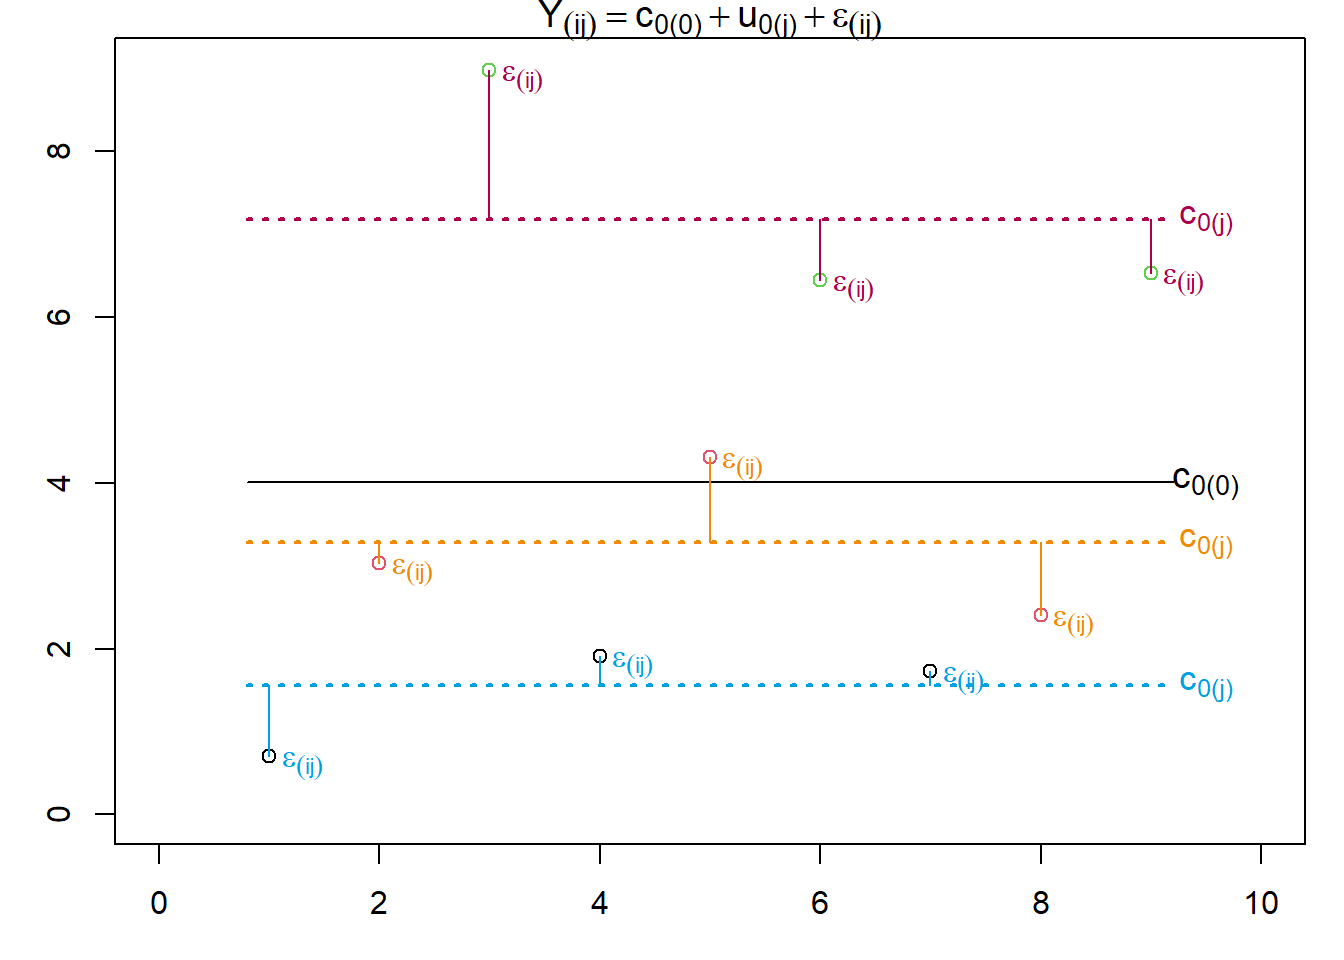
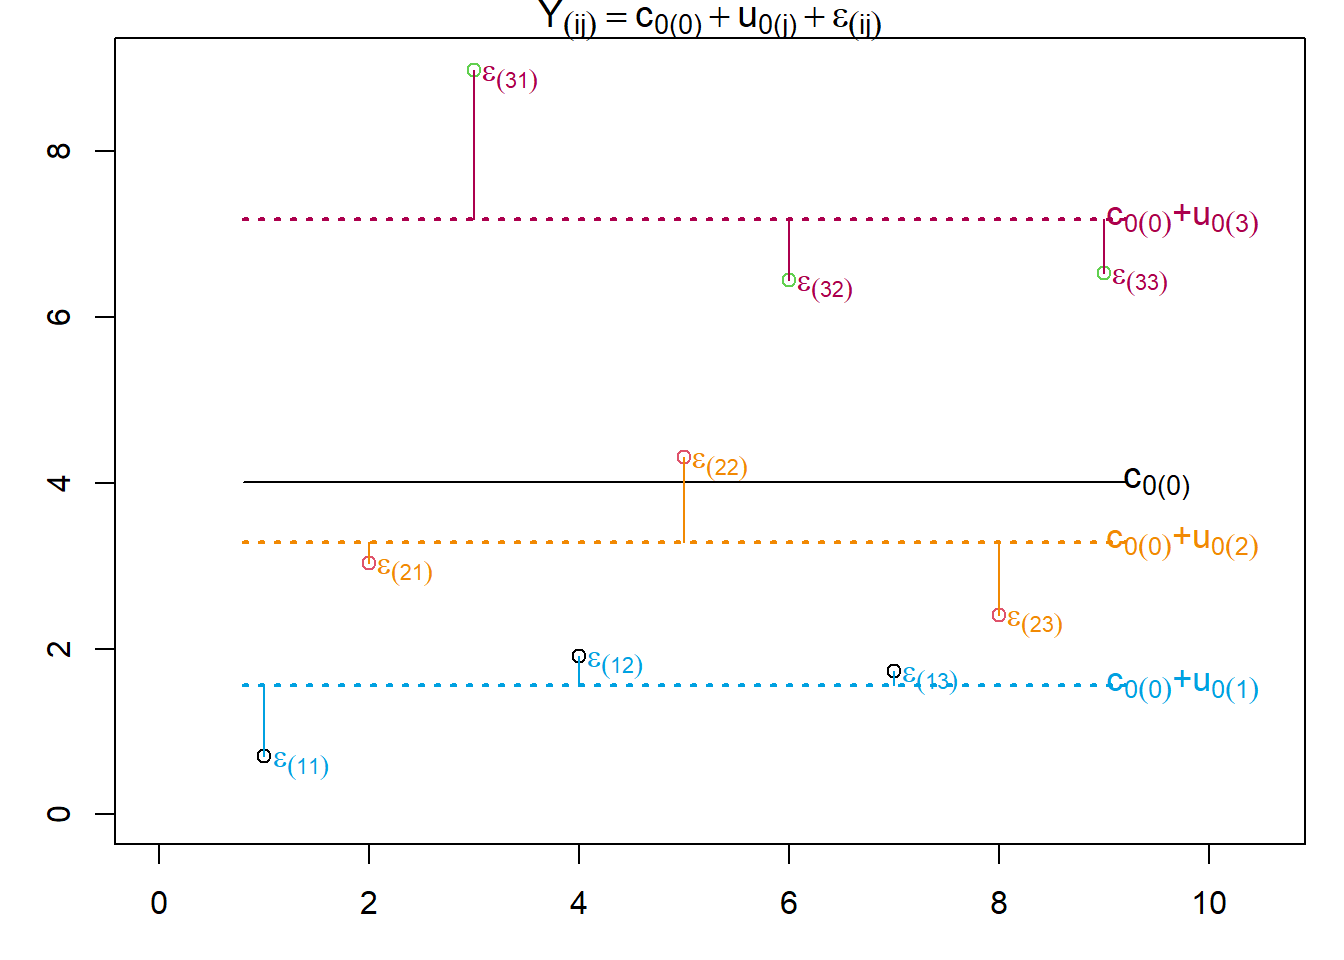
Bugfixes and improvement to inference9.

diff --git a/docs/inference9.html b/docs/inference9.html
@@ -282,7 +282,7 @@ code span.wa { color: #60a0b0; font-weight: bold; font-style: italic; } /* Warni
 </header>
 
 <p>In the real world (and in some psychological experiments), data is embedded in a hierarchical structure. If we want to apply a regression approach to hierarchical data, we need to consider this structure in our models.</p>
-<p>Hierarchical data structures consist of at last two levels at which the observation of a criterion variable of interest is possible. Per convention, we define the most fine-rained level of observation as level 1. Level 1 is the most fine-grained one and, thus, the one with the highest number of observations. At level 2, we can cluster the level 1 data into several distinct groups with group membership defined by level 2 variables. We can then cluster level 2 data into distinct groups at level 3, and so on.</p>
+<p>Hierarchical data structures consist of at last two levels at which the observation of variables is possible. Per convention, we define the most fine-grained level of observation as level 1. This is also the level at which we measure the criterion. Since Level 1 is the most fine-grained one it also has the highest number of observations. At level 2, we can cluster the level 1 data into several distinct groups with group membership defined by level 2 variables. We can then cluster level 2 data into distinct groups at level 3, and so on.</p>
 <p>Here are some examples:</p>
 <ul>
 <li>measurement of performance (criterion) in an experiment in several trials (level 1) per participant (level 2)</li>
@@ -298,7 +298,7 @@ code span.wa { color: #60a0b0; font-weight: bold; font-style: italic; } /* Warni
 <li><strong>Level 4</strong>: industry-level wage level, work hazards, degree of unionisation</li>
 </ul>
 <p>We could reasonably postulate hypotheses linking any (or all) of the variables above to the criterion (experienced stress). However, the critical question is how to approach a test of these hypotheses in an appropriate way. The answer is: by using multi-level models.</p>
-<p>Multi-level models (also known as hierarchical linear models, mixed effects models, or nested-data models) are regression models that take the hierarchical stricture of the data into account by partitioning the variance of the criterion accordingly. As such, they are not unlike repeated measures and mixed ANOVAs where the variance of the observed variable is partitioned into variance between and variance within participants. In fact, these ANOVAs are special types of multi-level models, which means that multi-level models are a more general and, thus, more flexible method to deal with hierarchical data.</p>
+<p>Multi-level models (also known as hierarchical linear models, mixed effects models, or nested-data models) are regression models that take the hierarchical structure of the data into account by partitioning the variance of the criterion accordingly. As such, they are not unlike repeated measures and mixed ANOVAs where the variance of the observed variable is partitioned into variance between and variance within participants. In fact, these ANOVAs are special types of multi-level models, which means that multi-level models are a more general and, thus, more flexible method to deal with hierarchical data.</p>
 <section id="why-considering-the-data-structrue-is-important" class="level2">
 <h2 class="anchored" data-anchor-id="why-considering-the-data-structrue-is-important">Why considering the data structrue is important</h2>
 <p>The first question we might ask ourselves is why we should bother considering the data structure in the first place. Why not just aggregate the data and run an ordinary linear regression model using the aggregate scores as the criterion? The answer is twofold.</p>
@@ -327,7 +327,7 @@ code span.wa { color: #60a0b0; font-weight: bold; font-style: italic; } /* Warni
 <p>We already know a model containing fixed and random effects, namely the simple linear regression. Let’s recap it basic formula:</p>
 <p><span class="math display">\[Y = b_0 + b_1X_1 + \epsilon\]</span> With:</p>
 <p><span class="math display">\[\epsilon \sim N(0, \sigma^2)\]</span></p>
-<p>Here, the parameters <span class="math inline">\(b_0\)</span> and <span class="math inline">\(_b1\)</span> are fixed effects. They are the basis for our model prediction <span class="math inline">\(\hat{Y}\)</span>. In contrast, the residual <span class="math inline">\(\epslion\)</span> is a random effect. While we compute the difference between our model prediction <span class="math inline">\(\hat{Y}\)</span> and the actual criterion <span class="math inline">\(Y\)</span> for each observation, we summarise the residual <span class="math inline">\(\epsilon\)</span> via a single parameter, namely its variance.</p>
+<p>Here, the parameters <span class="math inline">\(b_0\)</span> and <span class="math inline">\(_b1\)</span> are fixed effects. They are the basis for our model prediction <span class="math inline">\(\hat{Y}\)</span>. In contrast, the residual <span class="math inline">\(\epsilon\)</span> is a random effect. While we compute the difference between our model prediction <span class="math inline">\(\hat{Y}\)</span> and the actual criterion <span class="math inline">\(Y\)</span> for each observation, we summarise the residual <span class="math inline">\(\epsilon\)</span> via a single parameter, namely its variance.</p>
 <section id="from-simple-linear-regressionn-to-multi-level-modelling" class="level3">
 <h3 class="anchored" data-anchor-id="from-simple-linear-regressionn-to-multi-level-modelling">From simple linear regressionn to multi-level modelling</h3>
 <p>Let’s start with the most simple regression model, which we will call a single-level intercept only model.</p>
@@ -342,12 +342,12 @@ code span.wa { color: #60a0b0; font-weight: bold; font-style: italic; } /* Warni
 <p>Let’s now look at the most simple two-level model, which assumes that the intercept of the intercept-only model varies between groups formed by a level 2 grouping variable. Note that we will use a slightly different syntax. In this syntax, we will put the levels at which variables or parameters vary in parentheses. This makes it a little easier to parse the indices of the regression parameters as we will see below. Here is the model equation:</p>
 <p><span class="math display">\[Y_{(ij)} = b_{0(j)} + \epsilon_{(ij)}\]</span> Where:</p>
 <p><span class="math display">\[b_{0(j)} = c_{0(0)} + u_{0(j)}\]</span> Which means that:</p>
-<p><span class="math display">\[ Y_{(ij)} + c_{0(0)} + u_{0(j)} + \epsilon_{(ij)} \]</span> With:</p>
+<p><span class="math display">\[ Y_{(ij)} = c_{0(0)} + u_{0(j)} + \epsilon_{(ij)} \]</span> With:</p>
 <p><span class="math display">\[u_{0(j)} \sim N(0, \sigma_{u_{0(j)}}^2)\]</span> and <span class="math display">\[\epsilon_{(ij)} \sim N(0, \sigma_{\epsilon_{(ij)}}^2)\]</span></p>
 <p>The notation using parentheses in the indices allows us to differentiate two pieces of information for the model parameters: a) the parameter name, that is, which effect they correspond to (e.g., <span class="math inline">\(b_0\)</span> to represent the intercept and <span class="math inline">\(b_1\)</span> the effect of the first predictor) and b) whether that parameter is a constant (indicated by the value 0 in parentheses) or whether it varies randomly, indicated by the letter corresponding to the level at which the parameter varies (e.g., <span class="math inline">\(j\)</span> if the parameter varies randomly at level 2). Accordingly, the index of the parameter <span class="math inline">\(b_{0(j)}\)</span> reveals that it is the model intercept (the parameter <span class="math inline">\(b_0\)</span>), and that it varies between the level-2 units (indicated by the <span class="math inline">\(j\)</span> in parentheses).</p>
 <p>In the model <span class="math inline">\(Y_{ij}\)</span> is the criterion value of the <span class="math inline">\(i\)</span>th observation in the <span class="math inline">\(j\)</span>th group. The model intercept <span class="math inline">\(b_{0(j)}\)</span> is split into two components, the mean intercept across all <span class="math inline">\(j\)</span> groups <span class="math inline">\(c_{0(0)}\)</span> (the grand mean, which no longer varies between groups, hence the zero in parentheses), and a random component, the random intercept <span class="math inline">\(u_{0(j)}\)</span>. This random component <span class="math inline">\(u_{0(j)}\)</span> indicates how the intercept of the <span class="math inline">\(j\)</span>th level 2 unit deviates from the fixed intercept <span class="math inline">\(c_{0(0)}\)</span>. However, since we model <span class="math inline">\(u_{0(j)}\)</span> as a random effect, we only estimate its variance.</p>
 <p>Let’s now turn to the final parameter, the residual <span class="math inline">\(\epsilon_{(ij)}\)</span>. In this multi-level model, the intercept works a bit differently than in a single-level model. It indicates how the <span class="math inline">\(i\)</span> observations in the <span class="math inline">\(j\)</span>th group differ from that group’s intercept, which we get by adding <span class="math inline">\(c_{0(0)}\)</span> (the fixed intercept) and <span class="math inline">\(u_{0(j)}\)</span> (the <span class="math inline">\(j\)</span>th group’s deviation from the fixed intercept). What this means is that the residual <span class="math inline">\(\epsilon_{(ij)}\)</span> no longer represents the deviations between the model prediction and the actual criterion values, but instead denotes the (unexplained) variance <strong>within each group</strong>.</p>
-<p>Let’s look at an example and visualise it to get a better grasp of the differences between the two models. Let’s assume we have data from 9 participants (level 1) nested in three groups (level 2). We have one observation per participant. If we modeled the data with a single-level intercept only model, this is how it would look.</p>
+<p>Let’s look at an example and visualise it to get a better grasp of the differences between the two models. Let’s assume we have data from 9 participants (level 1) nested in three groups (level 2). We have one observation per participant. If we modelled the data with a single-level intercept only model, this is how it would look.</p>
 <div class="cell">
 <div class="cell-output-display">
 <p><img src="inference9_files/figure-html/unnamed-chunk-3-1.png" class="img-fluid" width="672"></p>
